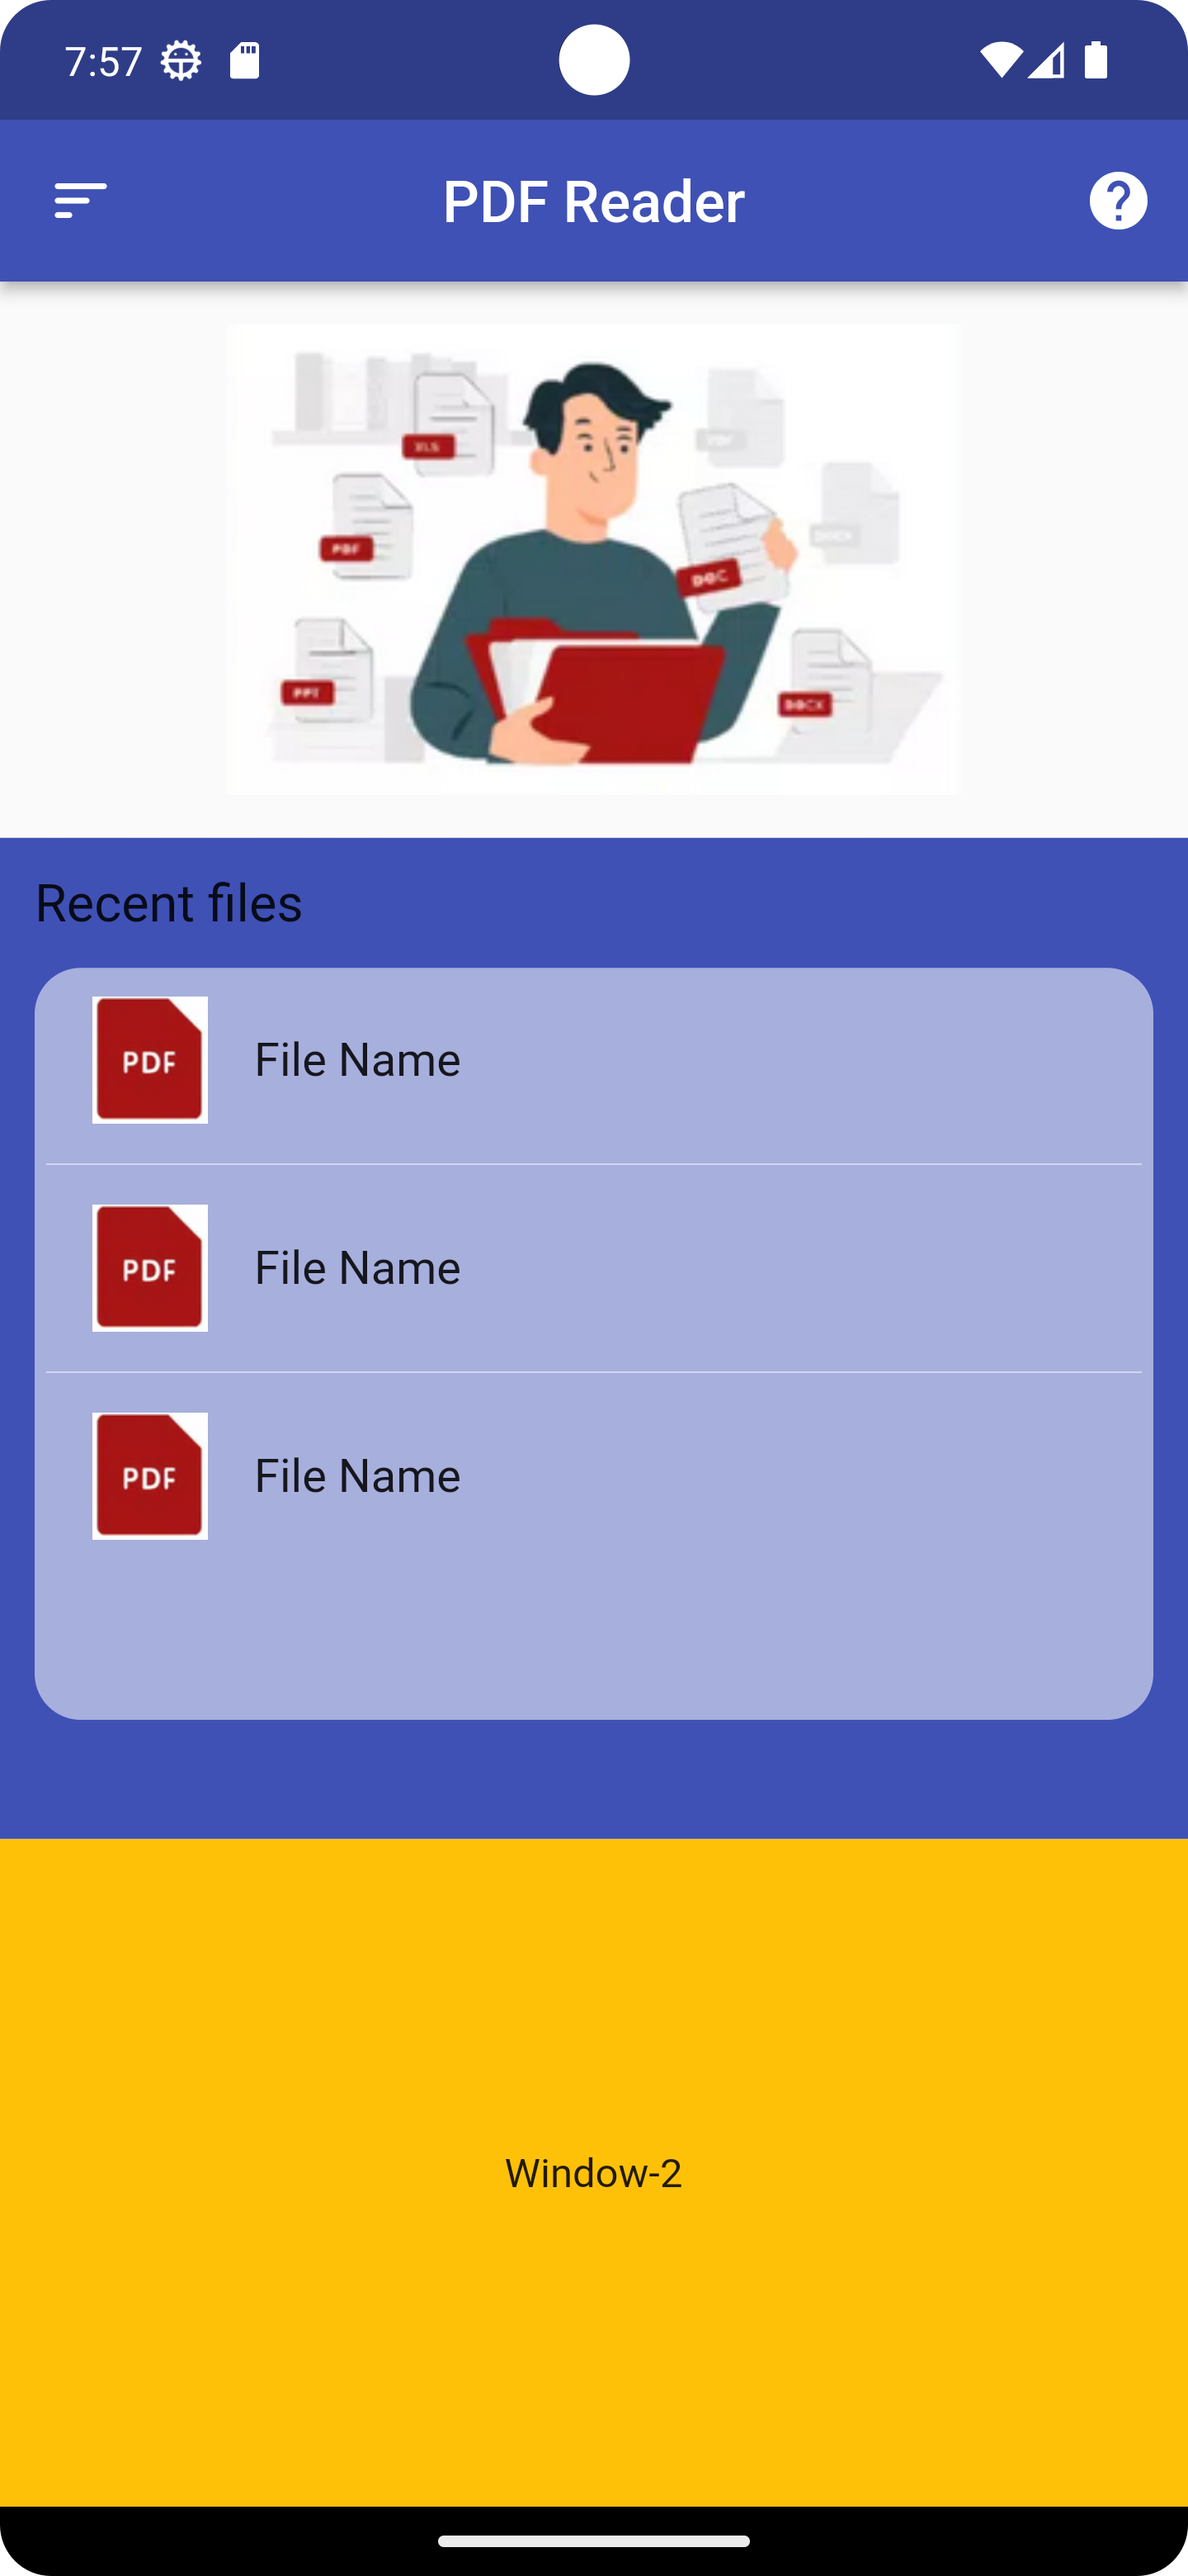
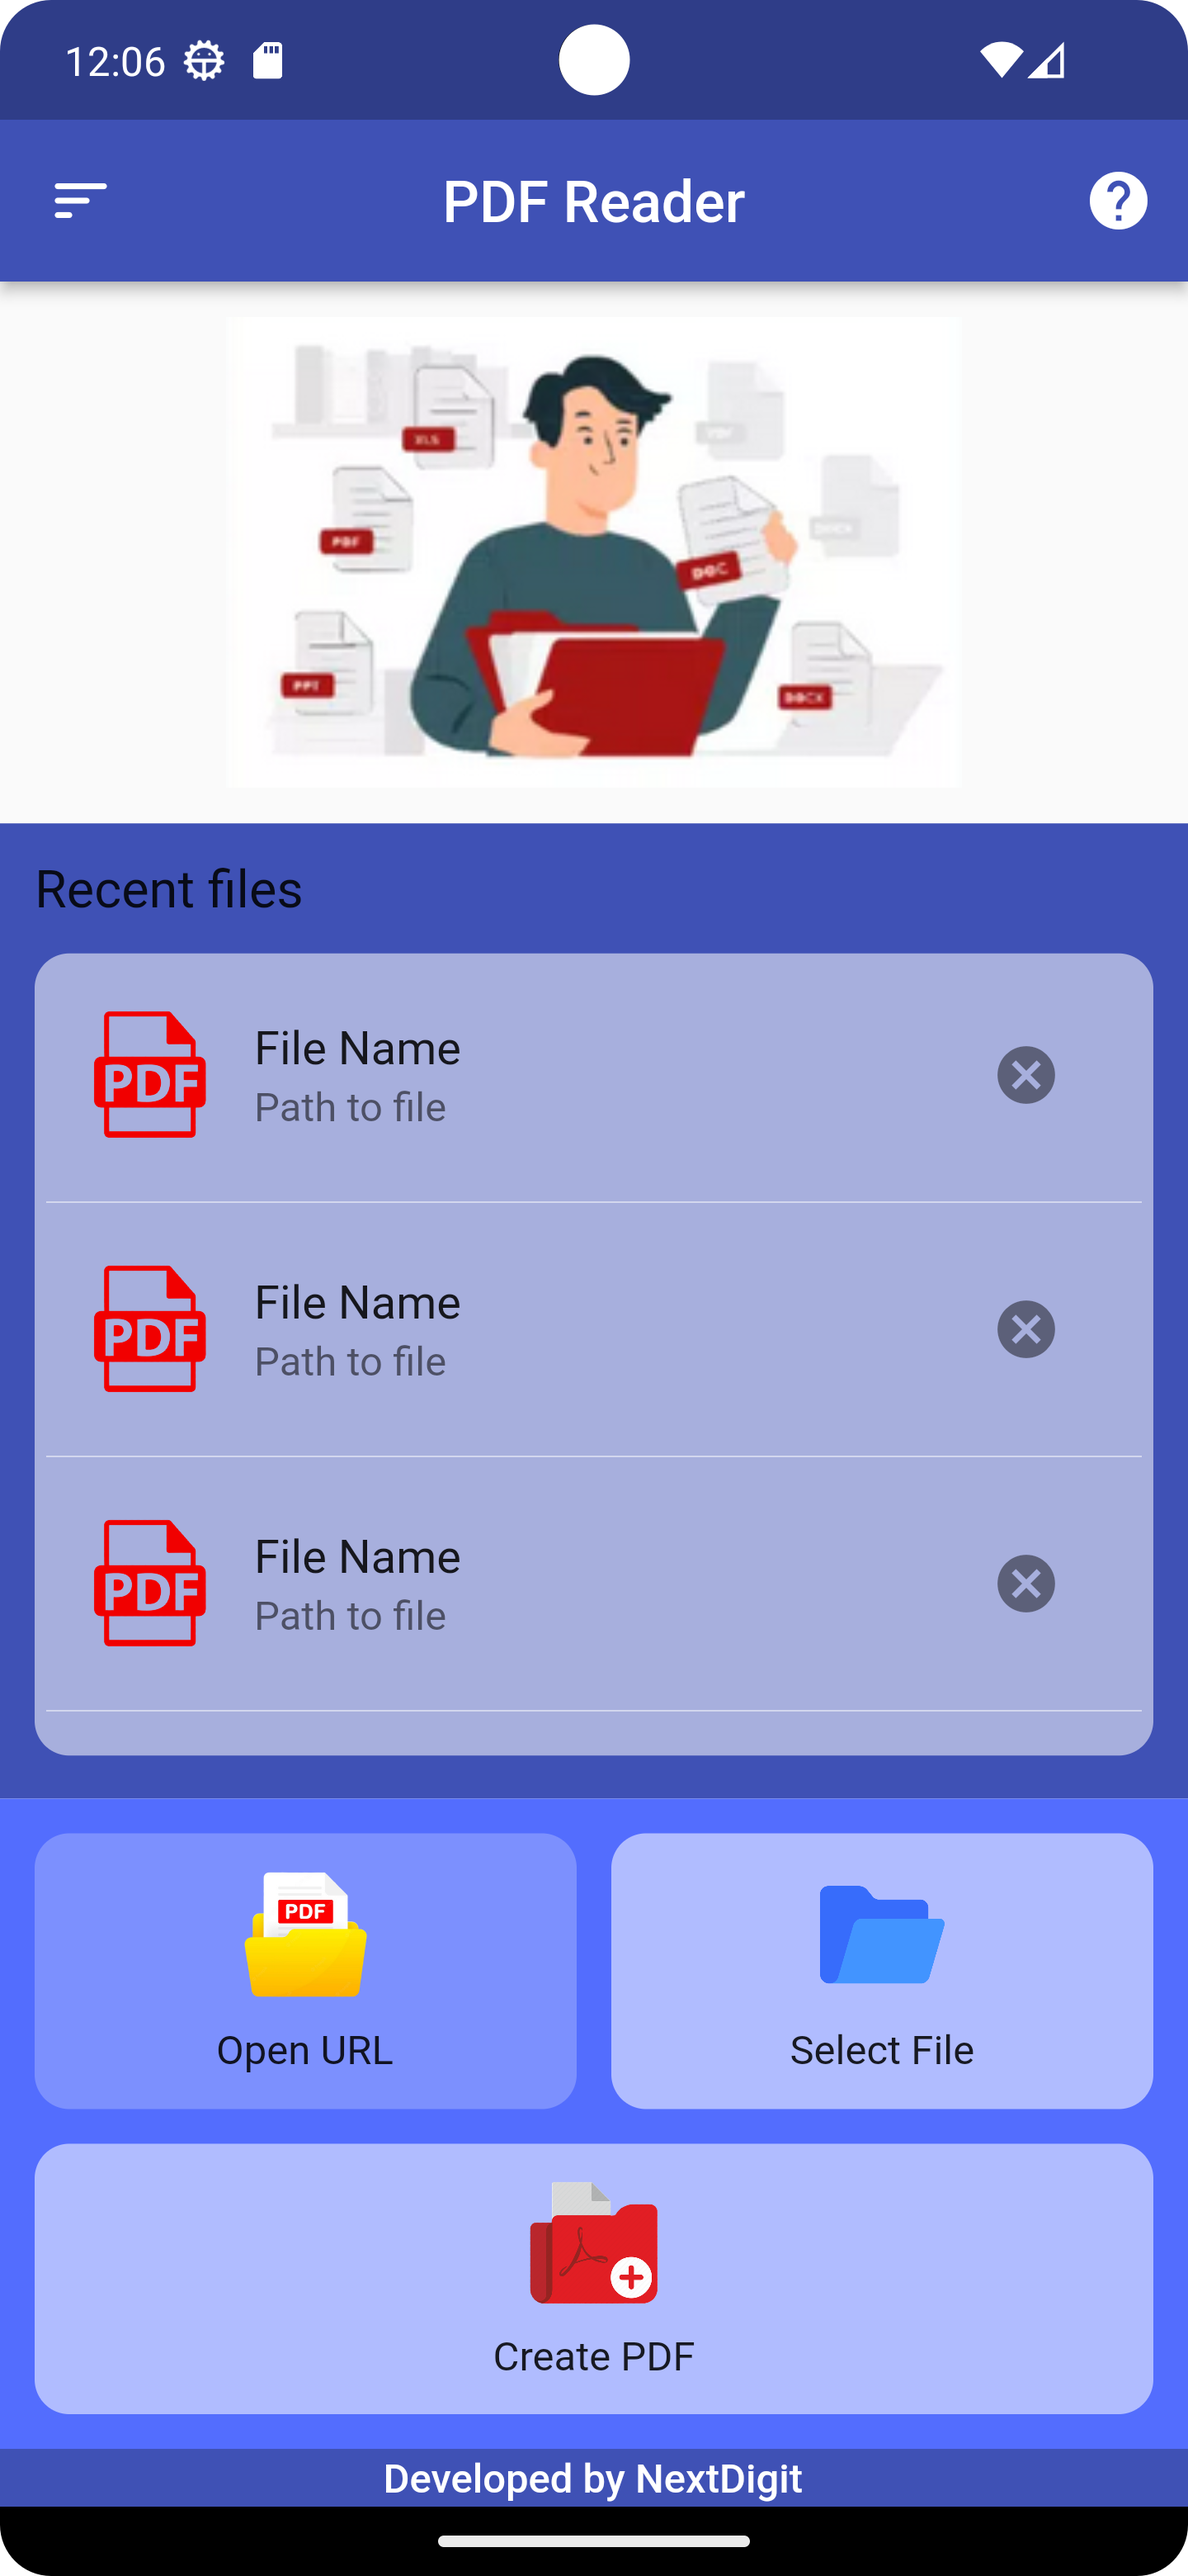
2nd cmt

diff --git a/lib/UI/home_page.dart b/lib/UI/home_page.dart
@@ -58,22 +58,30 @@ class _HomePageState extends State<HomePage> {
                           const Text('Recent files',style: TextStyle(fontSize: 18),),
                           const SizedBox(height: 12,),
                           Container(
-                            height: size.height * 0.3,
-                            padding: const EdgeInsets.all(4),
+                            height: size.height * 0.32,
+                            padding: const EdgeInsets.symmetric(horizontal: 4,vertical: 6),
                             decoration: BoxDecoration(
                               color: Colors.white54,
-                              borderRadius: BorderRadius.circular(16),
+                              borderRadius: BorderRadius.circular(12),
                             ),
                             child: ListView.separated(
+                              physics: const BouncingScrollPhysics(),
                               shrinkWrap: true,
                                 itemBuilder: ((context,index) {
                                   return ListTile(
                                     leading: Image.asset('images/pdf.png', width: 40, height: 50,),
                                     title: const Text('File Name',style: TextStyle(color: Colors.black87),),
+                                    subtitle: const Text('Path to file'),
+                                    trailing: IconButton(
+                                      onPressed: () {
+                                        //
+                                      },
+                                      icon: const Icon(Icons.cancel),
+                                    ),
                                   );
                                 }),
                                 separatorBuilder: (context, index) => const Divider(color: Colors.white,),
-                                itemCount: 3,
+                                itemCount: 5,
                             ),
                           ),
                         ],
@@ -84,16 +92,80 @@ class _HomePageState extends State<HomePage> {
                     flex: 2,
                     child: Container(
                       alignment: Alignment.center,
-                      color: Colors.amber,
-                      child: const Text('Window-2'),
+                      padding: const EdgeInsets.all(12),
+                      color: Colors.indigoAccent,
+                      child: Column(
+                        children: [
+                          SizedBox(
+                            height: size.height * 0.11,
+                            child: Row(
+                              children: [
+                                buttonWidget(
+                                  color: Colors.white24,
+                                  onTap : () {},
+                                  path: 'images/open.png',
+                                  title: 'Open URL',
+                                ),
+                                const SizedBox(width: 12,),
+                                buttonWidget(
+                                  color: Colors.white54,
+                                  onTap : () {},
+                                  path: 'images/folder.png',
+                                  title: 'Select File',
+                                ),
+                              ],
+                            ),
+                          ),
+                          const SizedBox(height: 12,),
+                          buttonWidget(
+                            color: Colors.white54,
+                            onTap : () {},
+                            path: 'images/create.png',
+                            title: 'Create PDF',
+                          ),
+                        ],
+                      ),
                     ),
                   ),
                 ],
               ),
             ),
-          )
+          ),
+          Container(
+            padding: const EdgeInsets.all(2),
+            color: Colors.indigo,
+            alignment: Alignment.center,
+            child: const Text('Developed by NextDigit',
+              style: TextStyle(fontWeight: FontWeight.w500,color: Colors.white),),
+          ),
         ],
       ),
     );
   }
+
+  Widget buttonWidget({color, path, title, onTap}) {
+    return Expanded(
+      child: GestureDetector(
+        onTap: onTap,
+        child: Container(
+          width: MediaQuery.of(context).size.width,
+          padding: const EdgeInsets.all(8),
+          decoration: BoxDecoration(
+            borderRadius: BorderRadius.circular(12),
+            color: color,
+          ),
+          child: Column(
+            mainAxisAlignment: MainAxisAlignment.spaceAround,
+            children: [
+              Image.asset('$path',height: 45,),
+              Text('$title',style: const TextStyle(color: Colors.black87),),
+            ],
+          ),
+        ),
+      ),
+    );
+  }
+
+
 }
+

diff --git a/README.md b/README.md
@@ -3,7 +3,6 @@
 A new Flutter project.
 
 ## Getting Started
-<img src="https://github.com/F-Reza/Flutter_PDF_Viewer/blob/main/Screenshot.png" width="340">
 
 This project is a starting point for a Flutter application.
 
